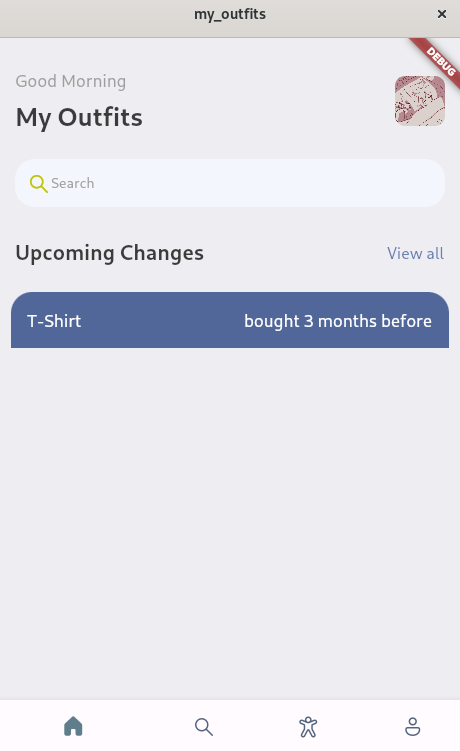
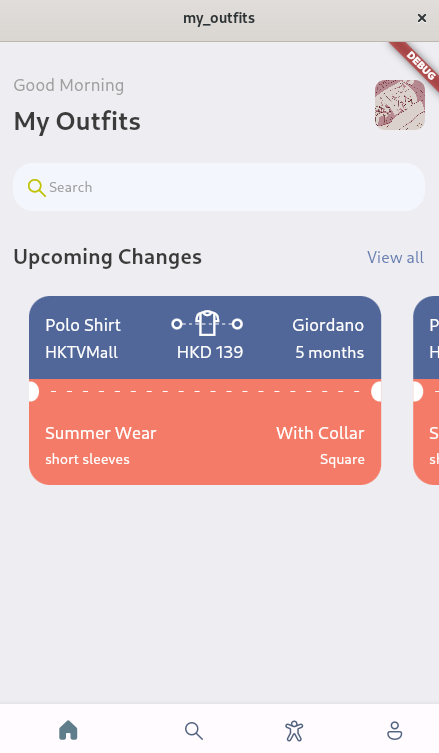
Stage 2.2

diff --git a/lib/screens/outfit_view.dart b/lib/screens/outfit_view.dart
@@ -1,6 +1,9 @@
 import 'package:flutter/cupertino.dart';
 import 'package:flutter/material.dart';
+import 'package:gap/gap.dart';
+import 'package:line_icons/line_icon.dart';
 import 'package:my_outfits/utils/app_layout.dart';
+import 'package:my_outfits/widgets/thick_container.dart';
 
 import '../utils/app_style.dart';
 
@@ -11,16 +14,16 @@ class OutfitView extends StatelessWidget {
   Widget build(BuildContext context) {
     final size = AppLayout.getSize(context);
     return SizedBox(
-      width: size.width,
+      width: size.width * 0.85,
       height: size.height,
       child: Container(
         margin: const EdgeInsets.only(left: 16, right: 16),
         child: Column(
           children: [
             Container(
-              decoration: BoxDecoration(
-                  color: const Color(0XFF526799),
-                  borderRadius: const BorderRadius.only(
+              decoration: const BoxDecoration(
+                  color: Color(0XFF526799),
+                  borderRadius: BorderRadius.only(
                       topLeft: Radius.circular(21),
                       topRight: Radius.circular(21))),
               padding: const EdgeInsets.all(16),
@@ -29,20 +32,193 @@ class OutfitView extends StatelessWidget {
                   Row(
                     children: [
                       Text(
-                        "T-Shirt",
+                        "Polo Shirt",
                         style:
                             Styles.headLineStyle3.copyWith(color: Colors.white),
                       ),
-                      const Spacer(),
+                      Expanded(child: Container()),
+                      const ThickContainer(),
+                      Expanded(
+                          child: Stack(children: [
+                        SizedBox(
+                          height: 24,
+                          child: LayoutBuilder(
+                            builder: (BuildContext context,
+                                BoxConstraints constraints) {
+                              return Flex(
+                                direction: Axis.horizontal,
+                                mainAxisAlignment:
+                                    MainAxisAlignment.spaceBetween,
+                                mainAxisSize: MainAxisSize.max,
+                                children: List.generate(
+                                    (constraints.constrainWidth() / 6).floor(),
+                                    (index) => const SizedBox(
+                                          width: 3,
+                                          height: 1,
+                                          child: DecoratedBox(
+                                            decoration: BoxDecoration(
+                                                color: Colors.white),
+                                          ),
+                                        )),
+                              );
+                            },
+                          ),
+                        ),
+                        Center(
+                            child: Transform.scale(
+                                scale: 1.3,
+                                child: LineIcon.tShirt(
+                                  color: Colors.white,
+                                ))),
+                      ])),
+                      const ThickContainer(),
+                      Expanded(child: Container()),
                       Text(
-                        "bought 3 months before",
+                        "Giordano",
                         style:
                             Styles.headLineStyle3.copyWith(color: Colors.white),
+                      )
+                    ],
+                  ),
+                  const Gap(3),
+                  Row(
+                    mainAxisAlignment: MainAxisAlignment.spaceBetween,
+                    children: [
+                      SizedBox(
+                        width: 110,
+                        child: Text(
+                          'HKTVMall',
+                          style: Styles.textStyle.copyWith(color: Colors.white),
+                        ),
+                      ),
+                      Text(
+                        'HKD 139',
+                        style:
+                            Styles.headLineStyle3.copyWith(color: Colors.white),
+                      ),
+                      SizedBox(
+                        width: 100,
+                        child: Text(
+                          '        5 months',
+                          style: Styles.textStyle.copyWith(color: Colors.white),
+                        ),
                       )
                     ],
                   )
                 ],
               ),
+            ),
+            Container(
+              color: Styles.orangeColor,
+              child: Row(children: [
+                const SizedBox(
+                    height: 20,
+                    width: 10,
+                    child: DecoratedBox(
+                      decoration: BoxDecoration(
+                          color: Colors.white,
+                          borderRadius: BorderRadius.only(
+                              topRight: Radius.circular(10),
+                              bottomRight: Radius.circular(10))),
+                    )),
+                Expanded(
+                    child: Padding(
+                  padding: const EdgeInsets.all(12.0),
+                  child: LayoutBuilder(
+                    builder:
+                        (BuildContext context, BoxConstraints constraints) {
+                      return Flex(
+                        direction: Axis.horizontal,
+                        mainAxisAlignment: MainAxisAlignment.spaceBetween,
+                        mainAxisSize: MainAxisSize.max,
+                        children: List.generate(
+                            (constraints.constrainWidth() / 15).floor(),
+                            (index) => const SizedBox(
+                                  width: 5,
+                                  height: 1,
+                                  child: DecoratedBox(
+                                      decoration:
+                                          BoxDecoration(color: Colors.white)),
+                                )),
+                      );
+                    },
+                  ),
+                )),
+                const SizedBox(
+                    height: 20,
+                    width: 10,
+                    child: DecoratedBox(
+                      decoration: BoxDecoration(
+                          color: Colors.white,
+                          borderRadius: BorderRadius.only(
+                              topLeft: Radius.circular(10),
+                              bottomLeft: Radius.circular(10))),
+                    ))
+              ]),
+            ),
+            Container(
+              decoration: BoxDecoration(
+                  color: Styles.orangeColor,
+                  borderRadius: const BorderRadius.only(
+                      bottomLeft: Radius.circular(21),
+                      bottomRight: Radius.circular(21))),
+              padding: const EdgeInsets.only(
+                  left: 16, top: 16, bottom: 16, right: 16),
+              child: Column(children: [
+                Row(
+                  mainAxisAlignment: MainAxisAlignment.spaceBetween,
+                  children: [
+                    Column(
+                      crossAxisAlignment: CrossAxisAlignment.start,
+                      children: [
+                        Text(
+                          'Summer Wear',
+                          style: Styles.headLineStyle3
+                              .copyWith(color: Colors.white),
+                        ),
+                        const Gap(5),
+                        Text(
+                          'short sleeves',
+                          style: Styles.headLineStyle4
+                              .copyWith(color: Colors.white),
+                        ),
+                      ],
+                    ),
+                    // Column(
+                    //   crossAxisAlignment: CrossAxisAlignment.center,
+                    //   children: [
+                    //     Text(
+                    //       'placeholder1',
+                    //       style: Styles.headLineStyle3
+                    //           .copyWith(color: Colors.white),
+                    //     ),
+                    //     const Gap(5),
+                    //     Text(
+                    //       'placeholder2',
+                    //       style: Styles.headLineStyle4
+                    //           .copyWith(color: Colors.white),
+                    //     ),
+                    //   ],
+                    // ),
+                    Column(
+                      crossAxisAlignment: CrossAxisAlignment.end,
+                      children: [
+                        Text(
+                          'With Collar',
+                          style: Styles.headLineStyle3
+                              .copyWith(color: Colors.white),
+                        ),
+                        const Gap(5),
+                        Text(
+                          'Square',
+                          style: Styles.headLineStyle4
+                              .copyWith(color: Colors.white),
+                        ),
+                      ],
+                    ),
+                  ],
+                )
+              ]),
             )
           ],
         ),

diff --git a/lib/screens/home_screen.dart b/lib/screens/home_screen.dart
@@ -67,19 +67,36 @@ class HomeScreen extends StatelessWidget {
                 Row(
                   mainAxisAlignment: MainAxisAlignment.spaceBetween,
                   children: [
-                    Text("Upcoming Changes", style: Styles.headLineStyle2,),
+                    Text(
+                      "Upcoming Changes",
+                      style: Styles.headLineStyle2,
+                    ),
                     InkWell(
-                        onTap: (){
+                        onTap: () {
                           print("tapped");
                         },
-                        child: Text("View all", style: Styles.textStyle.copyWith(color: Styles.primaryColor),))
+                        child: Text(
+                          "View all",
+                          style: Styles.textStyle
+                              .copyWith(color: Styles.primaryColor),
+                        ))
                   ],
                 )
               ],
             ),
           ),
           const Gap(15),
-          OutfitView(),
+          const SingleChildScrollView(
+            scrollDirection: Axis.horizontal,
+            padding: EdgeInsets.only(left: 20),
+            child: Row(
+              children: [
+                OutfitView(),
+                OutfitView(),
+              ],
+            ),
+          ),
+          const Gap(15),
         ],
       ),
     );

diff --git a/lib/utils/app_style.dart b/lib/utils/app_style.dart
@@ -6,7 +6,9 @@ class Styles {
   static Color primaryColor = primary;
   static Color textColor = const Color(0xFF3b3b3b);
   static Color bgColor = const Color(0xFFeeeef2);
-  static Color orangeColor = const Color(0xFF526799);
+  static Color orangeColor = const Color(0xFFF37B67);
+  static TextStyle captionStyle =
+      TextStyle(fontSize: 13, color: textColor, fontWeight: FontWeight.w500);
   static TextStyle textStyle =
       TextStyle(fontSize: 16, color: textColor, fontWeight: FontWeight.w500);
   static TextStyle headLineStyle =

diff --git a/lib/widgets/thick_container.dart b/lib/widgets/thick_container.dart
@@ -1,0 +1,16 @@
+import 'package:flutter/cupertino.dart';
+import 'package:flutter/material.dart';
+
+class ThickContainer extends StatelessWidget {
+  const ThickContainer({super.key});
+
+  @override
+  Widget build(BuildContext context) {
+    return Container(
+      padding: const EdgeInsets.all(3.0),
+      decoration: BoxDecoration(
+          borderRadius: BorderRadius.circular(20),
+          border: Border.all(width: 2.5, color: Colors.white)),
+    );
+  }
+}

diff --git a/records/2022-02-15/2022-02-15.md b/records/2022-02-15/2022-02-15.md
@@ -3,7 +3,7 @@ After the basic framework, I tried to add the components on the homepage (one se
 
 The homepage is dedicated into displaying the highlight information. At present, I consider to display what clothes is urgently needed to be replaced, and recently added clothes.
 
-Still, the frontend work is tedious, today I just completed around 1/3.
+Still, the frontend work is tedious, today I just completed around 2/3.
 
 ![home.png](/records/2022-02-15/home.png)
 ---

diff --git a/README.md b/README.md
@@ -17,6 +17,9 @@ Stage 2: Static Information with Each Section
 
 Detailed development records are in the [records](/records/) folder.
 
+The screenshot of the main page is displayed below:
+![home.png](/records/2022-02-15/home.png)
+
 ## Credits
 The following lists the references I refer to during the learning of Flutter framework.
 - [Flutter docs](https://docs.flutter.dev/)
